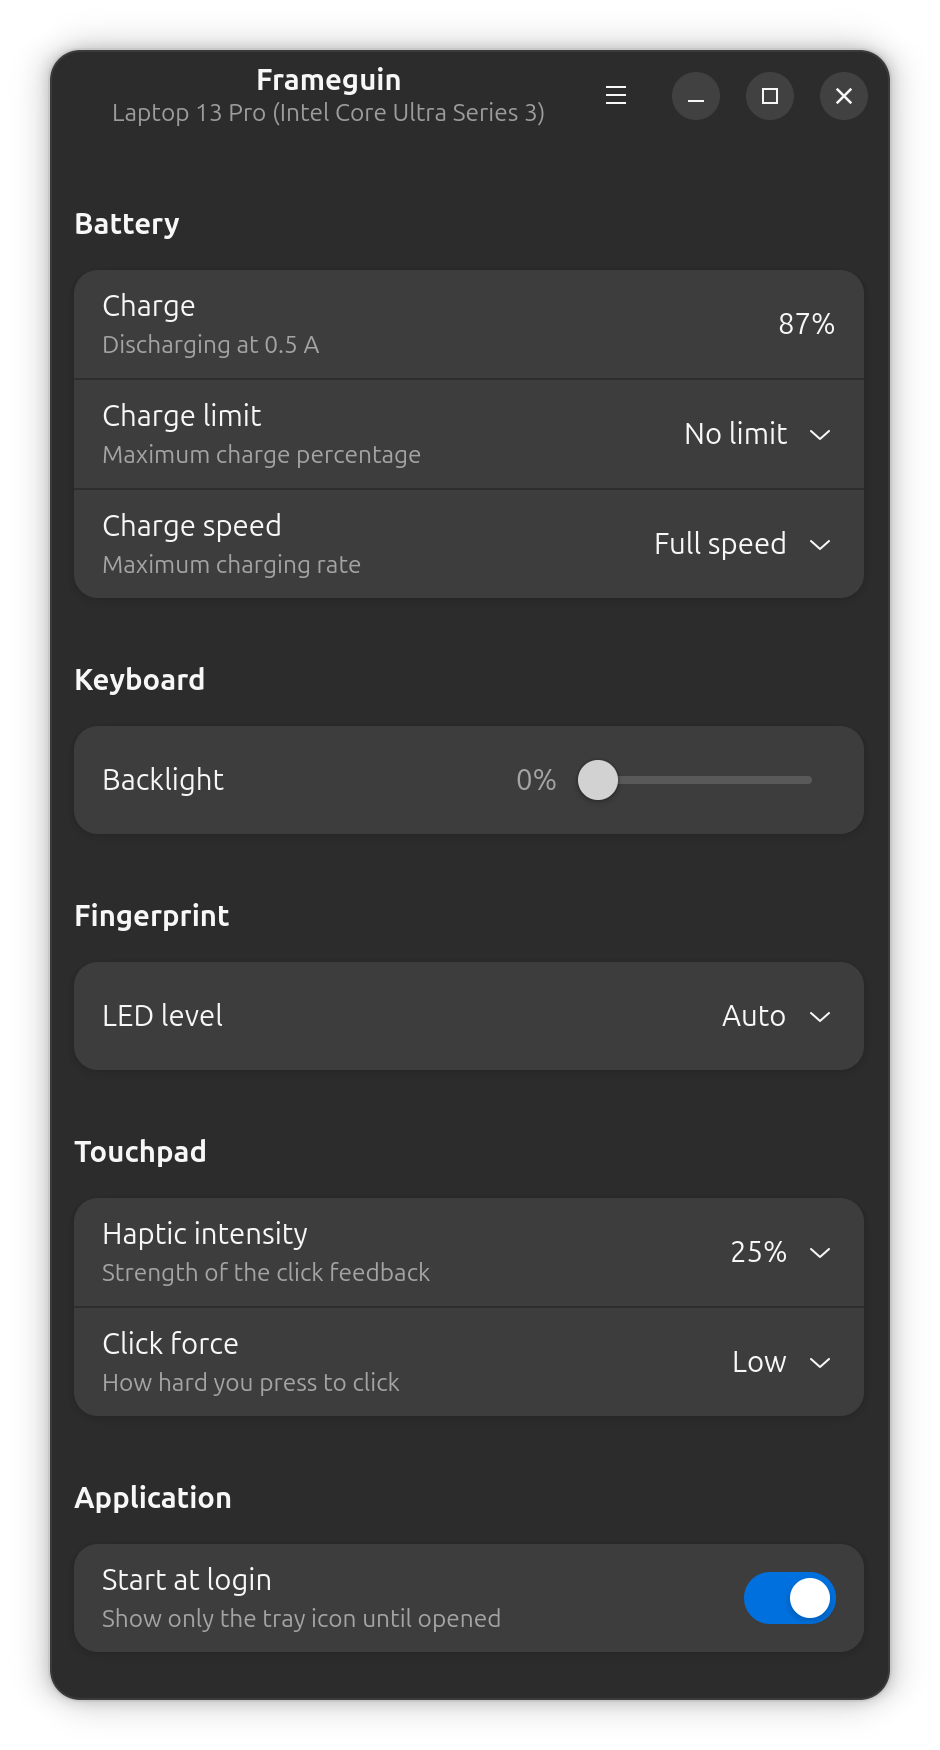
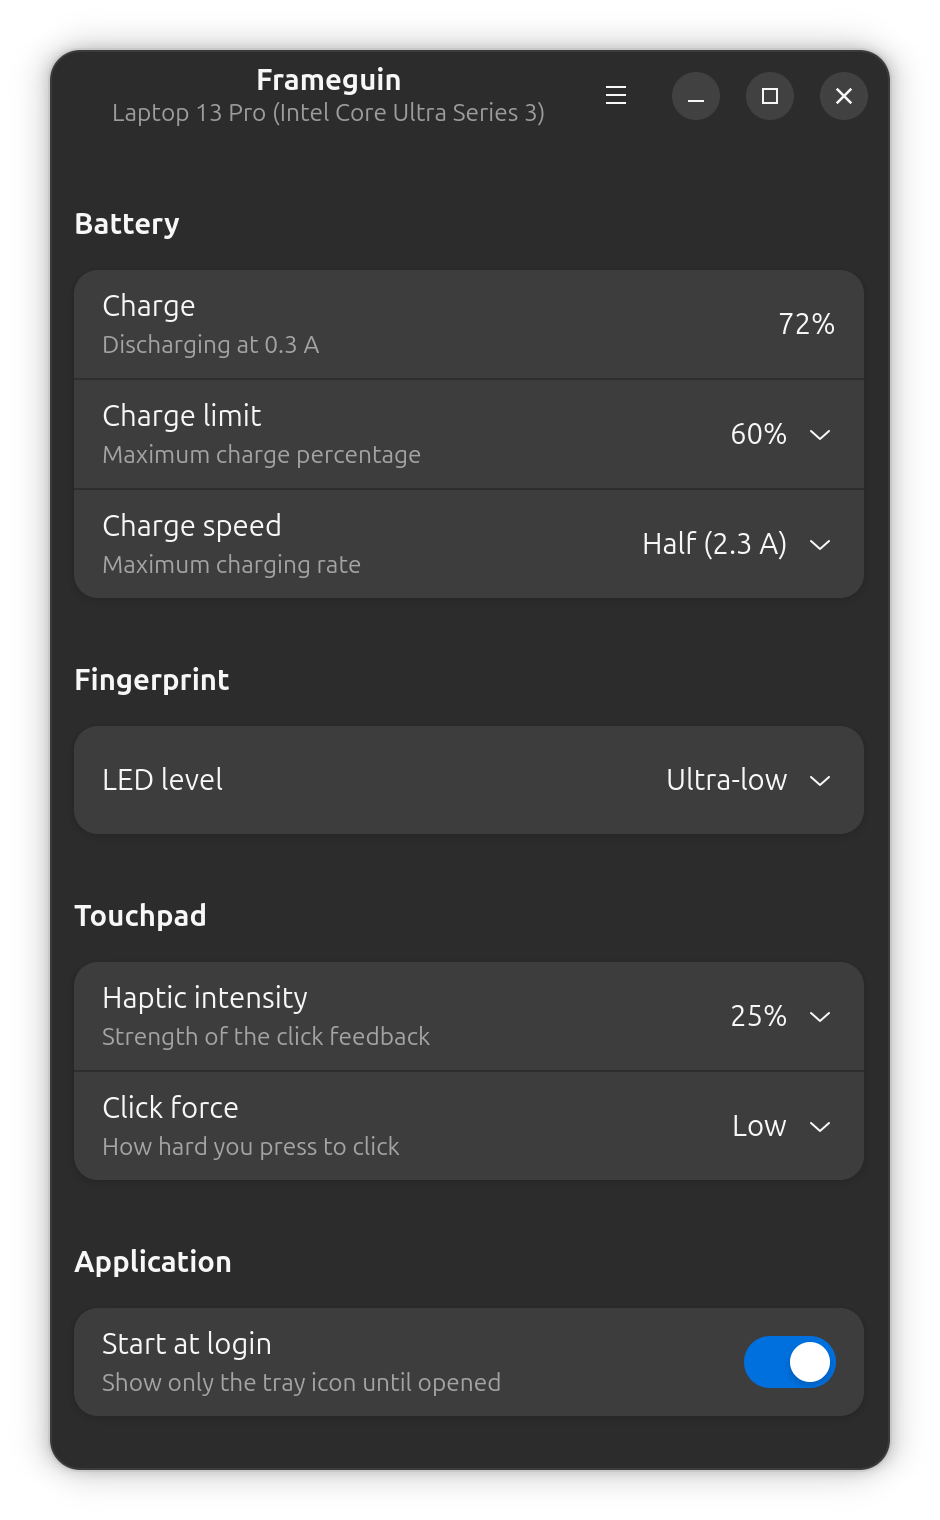
Take the height of the dropped keyboard group off the window
The window was sized to fit its groups exactly, with only a few pixels
below the last card, so dropping one left a visible empty band rather than
slack. The 115px is that group's heading, card and gap measured at the
default font scale.

The screenshot goes with it: the README embeds it and the metainfo points
at the copy on main, so it is the most visible statement of what the
window holds.

diff --git a/app/src/ui.rs b/app/src/ui.rs
@@ -868,8 +868,8 @@ pub(crate) fn build_window(
         .title("Frameguin")
         .default_width(420)
         // Tall enough for every control group at the default font scale;
-        // re-measure when adding a row.
-        .default_height(825)
+        // re-measure when the rows change.
+        .default_height(710)
         .content(&toasts)
         .icon_name(APP_ID)
         .build();
